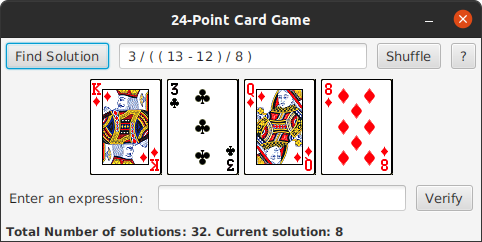
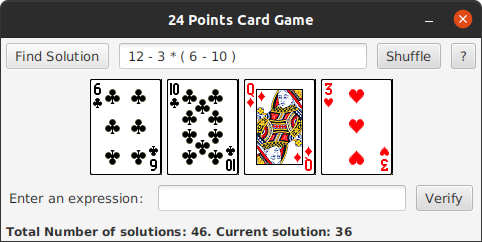
Changed game name to 24 Points card game

diff --git a/src/game/Main.java b/src/game/Main.java
@@ -13,7 +13,7 @@ public class Main extends Application {
 		Parent root = FXMLLoader.load(getClass().getResource("UI.fxml"));
 		Scene scene = new Scene(root);
 		primaryStage.setScene(scene);
-		primaryStage.setTitle("24-Point Card Game");
+		primaryStage.setTitle("24 Points Card Game");
 		primaryStage.show();
 		primaryStage.setResizable(false);
 	}
